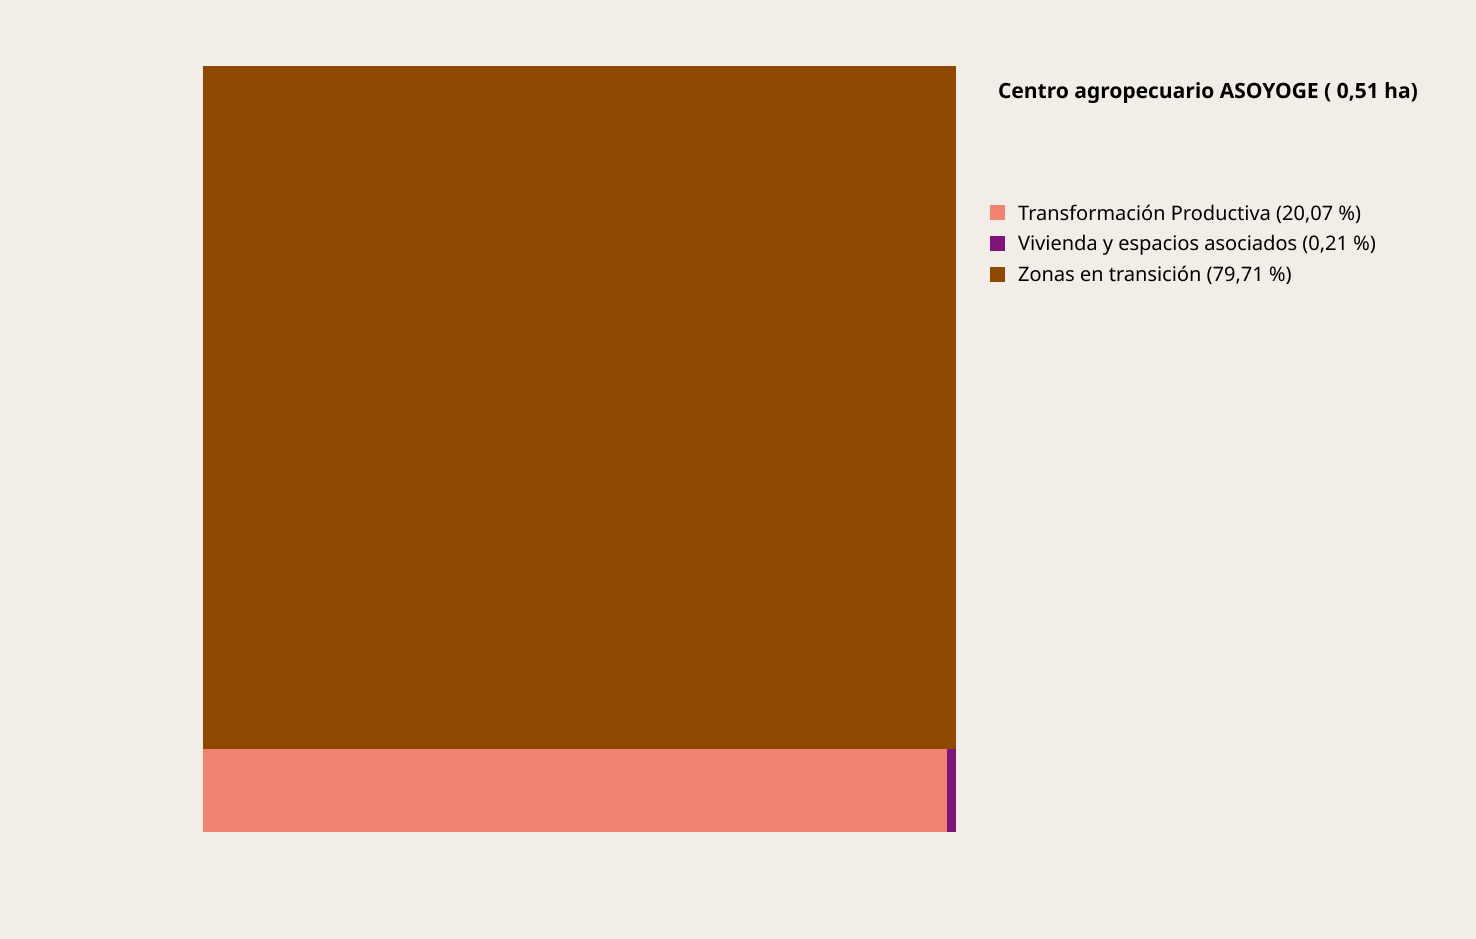
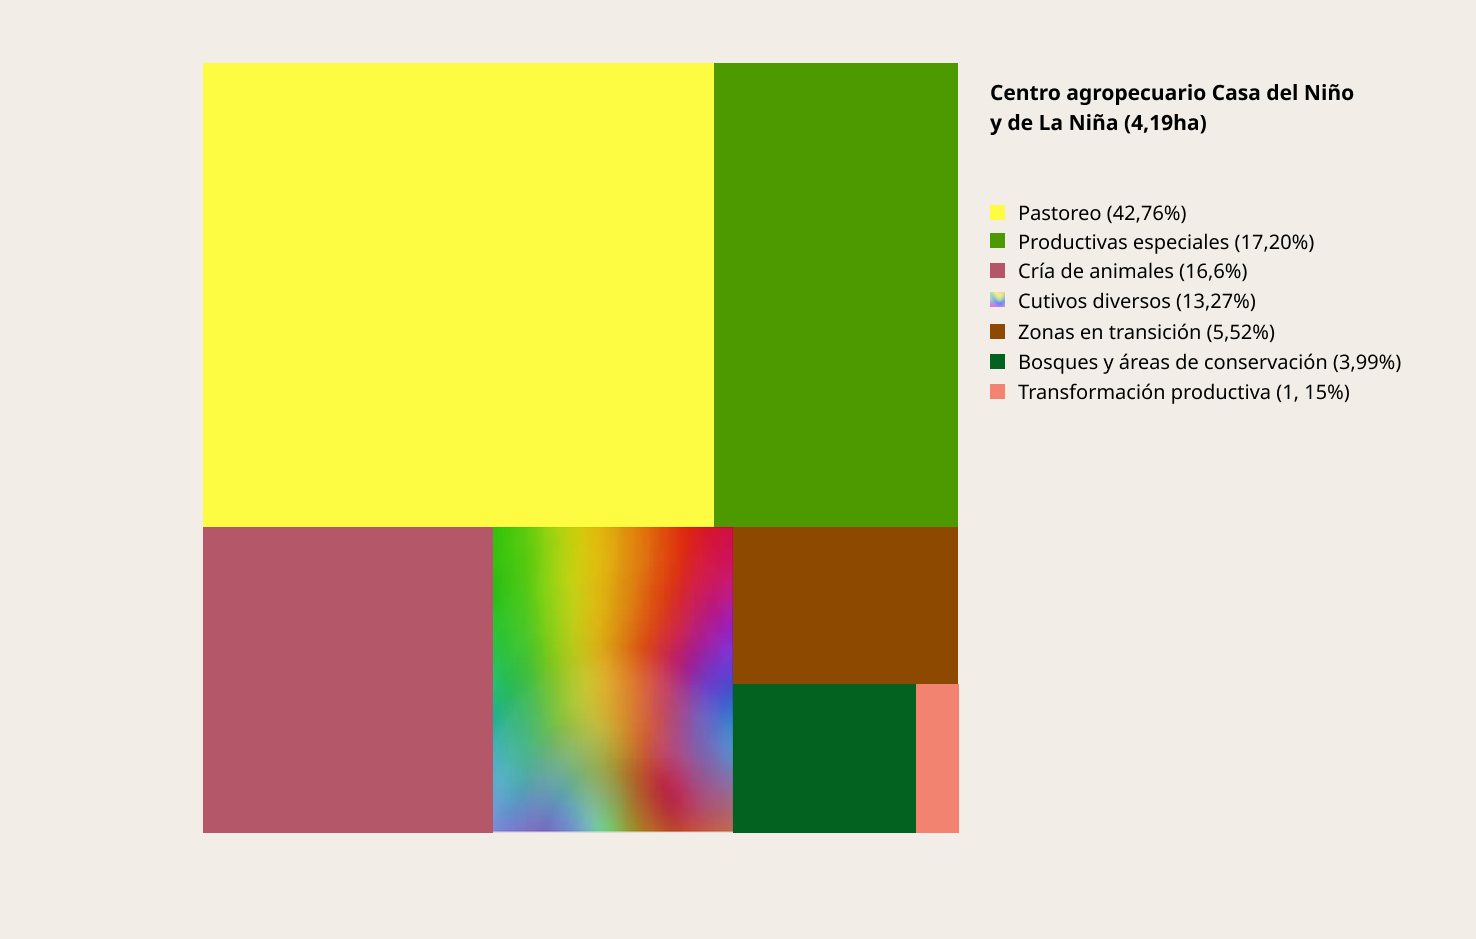
fix(cap4): agregar mapa de árbol a ASOYOGE y corregir Centro agropecuario
ASOYOGE no tenía Mapa de árbol. Su imagen, titulada "Centro agropecuario
ASOYOGE (0,51 ha)", estaba mal asignada a Centro agropecuario, y el Perfil de
ese mapa mostraba en realidad su treemap (Casa del Niño y de la Niña, 4,19 ha).

- arbol-asoyoge.png: la imagen de ASOYOGE, con su modal y su botón.
- arbol-centro-agropecuario.png: el treemap de Casa del Niño y de la Niña.
- perfil-centro-agropecuario.png: el corte de zonificación guachene.png,
  recuperado de atlas-old. Es el que la versión anterior (v17) asignaba a este
  mapa; el modal pasa a fondo blanco, como los demás perfiles.

Las imágenes salen de atlas-old/public/assets/iconsCap4, con el orden de
modalsData y SidebarLeft de la versión anterior.

diff --git a/src/content/modals/chapter-4.ts b/src/content/modals/chapter-4.ts
@@ -354,6 +354,18 @@ const CAP4_PERFIL_ASOYOGE: Modal = diagrama(
   'Perfil',
 )
 
+const CAP4_ARBOL_ASOYOGE: Modal = diagrama(
+  'cap4-arbol-asoyoge',
+  'Centro agropecuario ASOYOGE (0,51 ha)',
+  'Mapa de árbol',
+  'mapa-arbol',
+  '1',
+  '/assets/modal/chapter-4/arbol-asoyoge.png',
+  'chapter4-asoyoge',
+  'Mapa de árbol',
+  '#f2eee7',
+)
+
 const CAP4_PERFIL_EL_BUHIDO: Modal = diagrama(
   'cap4-perfil-el-buhido',
   'Finca El Buhido',
@@ -455,7 +467,6 @@ const CAP4_PERFIL_CENTRO_AGROPECUARIO: Modal = diagrama(
   '/assets/modal/chapter-4/perfil-centro-agropecuario.png',
   'chapter4-centro-agropecuario',
   'Perfil',
-  '#f2eee7',
 )
 
 const CAP4_ARBOL_CENTRO_AGROPECUARIO: Modal = diagrama(
@@ -510,6 +521,7 @@ export const CHAPTER4_MODALS: Modal[] = [
   CAP4_PRESENTACION_PROBLEMACAS,
   CAP4_DATO_INTRODUCCION,
   CAP4_PERFIL_ASOYOGE,
+  CAP4_ARBOL_ASOYOGE,
   CAP4_PERFIL_EL_BUHIDO,
   CAP4_ARBOL_EL_BUHIDO,
   CAP4_PERFIL_EL_PASO,

diff --git a/src/content/chapter-4/asoyoge/map.ts b/src/content/chapter-4/asoyoge/map.ts
@@ -12,6 +12,7 @@ export default defineMap({
     sb.presentacion('cap4-presentacion-asoyoge'),
     sb.ficha('FichasCap4/Centro agropecuario ASOYOGE.pdf'),
     sb.modal('perfil', 'cap4-perfil-asoyoge'),
+    sb.modal('mapa-arbol', 'cap4-arbol-asoyoge'),
   ],
   geo: { pgw: [0, 5.06536e-7, 5.06572e-7, 0, -76.68490913590671, 2.9357762363425706], width: 3578, height: 6361 },
   base,

diff --git a/tests/content/sidebarIcons.test.tsx b/tests/content/sidebarIcons.test.tsx
@@ -55,6 +55,7 @@ describe('Sidebar ↔ catálogo de iconos ↔ modales', () => {
     const targets = [
       'cap4-dato-introduccion',
       'cap4-perfil-asoyoge',
+      'cap4-arbol-asoyoge',
       'cap4-perfil-el-buhido',
       'cap4-arbol-el-buhido',
       'cap4-perfil-el-paso',
